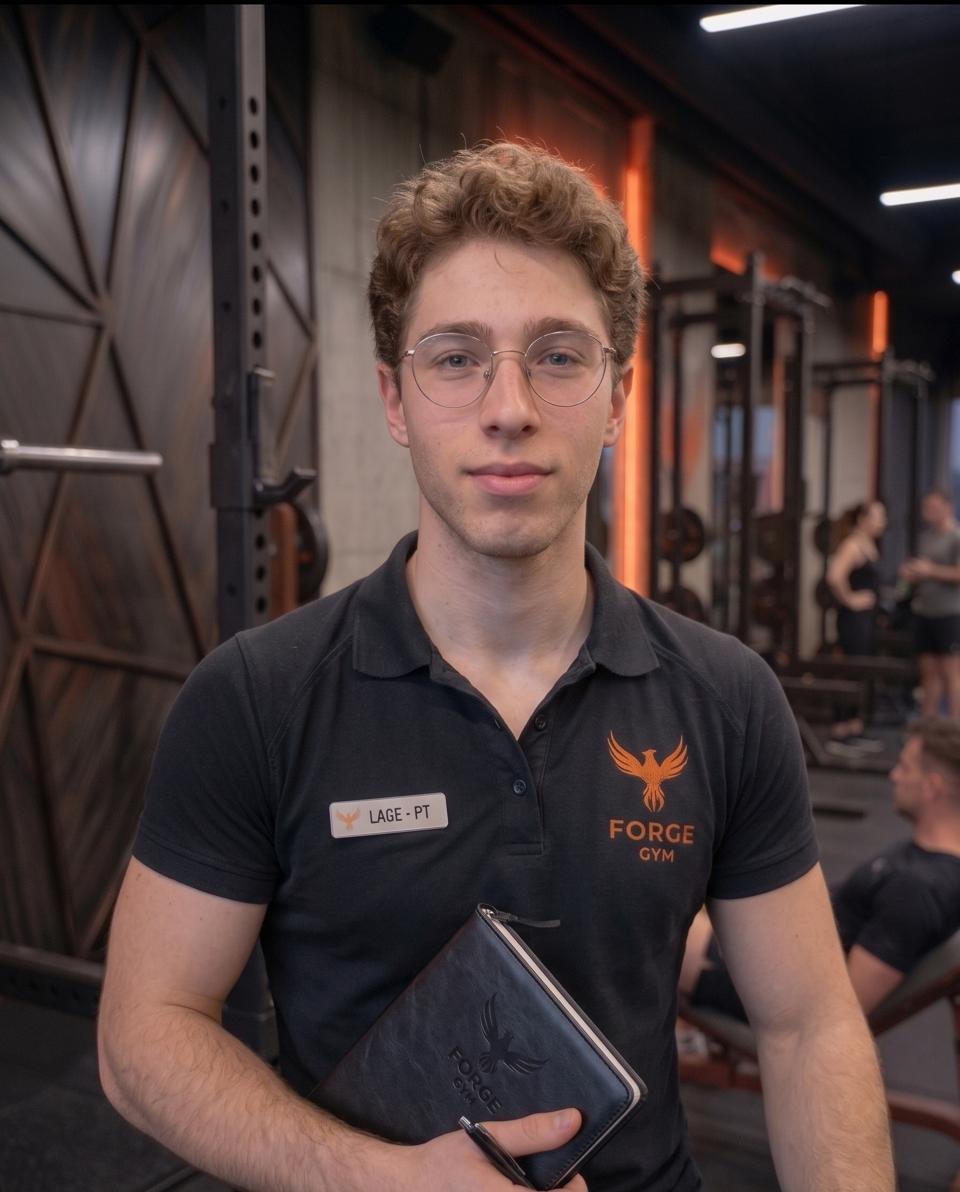
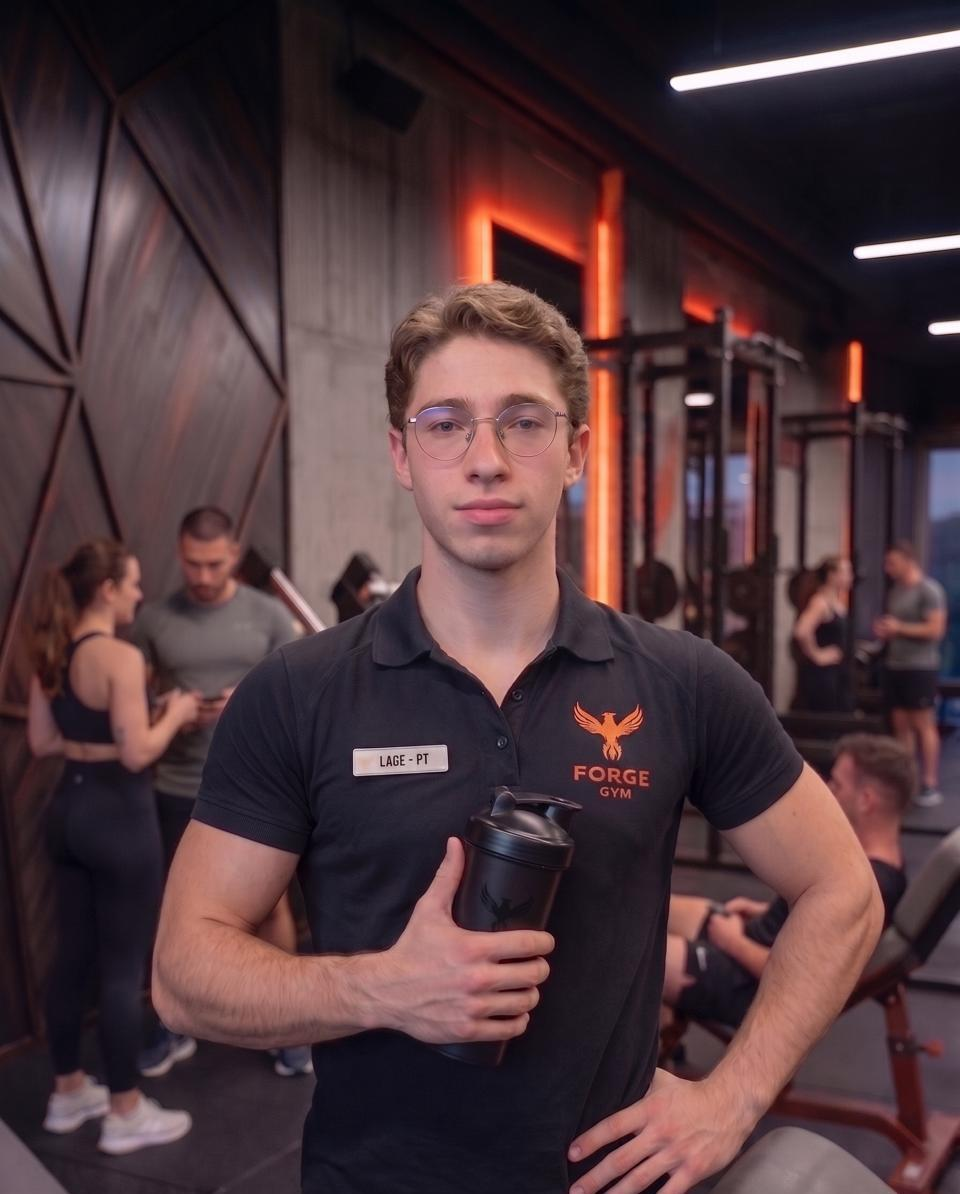
Updated README

diff --git a/README.md b/README.md
@@ -3,14 +3,14 @@
 ## Features
 
 **All users:**
-- [x] Register a new account.
+- [ ] Register a new account.
 - [ ] Log in and out.
-- [x] Edit their profile, including name, username, password, and profile photo.
+- [ ] Edit their profile, including name, username, password, and profile photo.
 
 **Members:**
-- [ ] Browse the schedule of available fitness classes, filtering by type, trainer, day, or time.
+- [X] Browse the schedule of available fitness classes, filtering by type, trainer, day, or time.
 - [ ] Enroll in and cancel enrollment from upcoming classes, subject to capacity limits.
-- [ ] View trainer profiles, including their specializations and the classes they teach.
+- [X] View trainer profiles, including their specializations and the classes they teach.
 - [ ] Check the current availability of equipment in the main training area.
 - [ ] Leave ratings and reviews for classes they have attended.
 
@@ -30,6 +30,14 @@
 - [ ] Something extra (e.g., personal training bookings, membership plans, waitlist, ...).
 
 ## Running
+
+**Locating the HTML files:**
+- The main landing page is `index.html` (located in the root folder).
+- The workout schedule page is `plan.html` (located in the `pages/` folder).
+- The profile page is `profile.html` (located in the `pages/` folder).
+
+**Starting the server:**
+To see the rendered result properly via PHP, open your terminal in the root folder of the project and run the following commands:
 
     sqlite3 database/database.db < database/database.sql
     php -S localhost:9000
